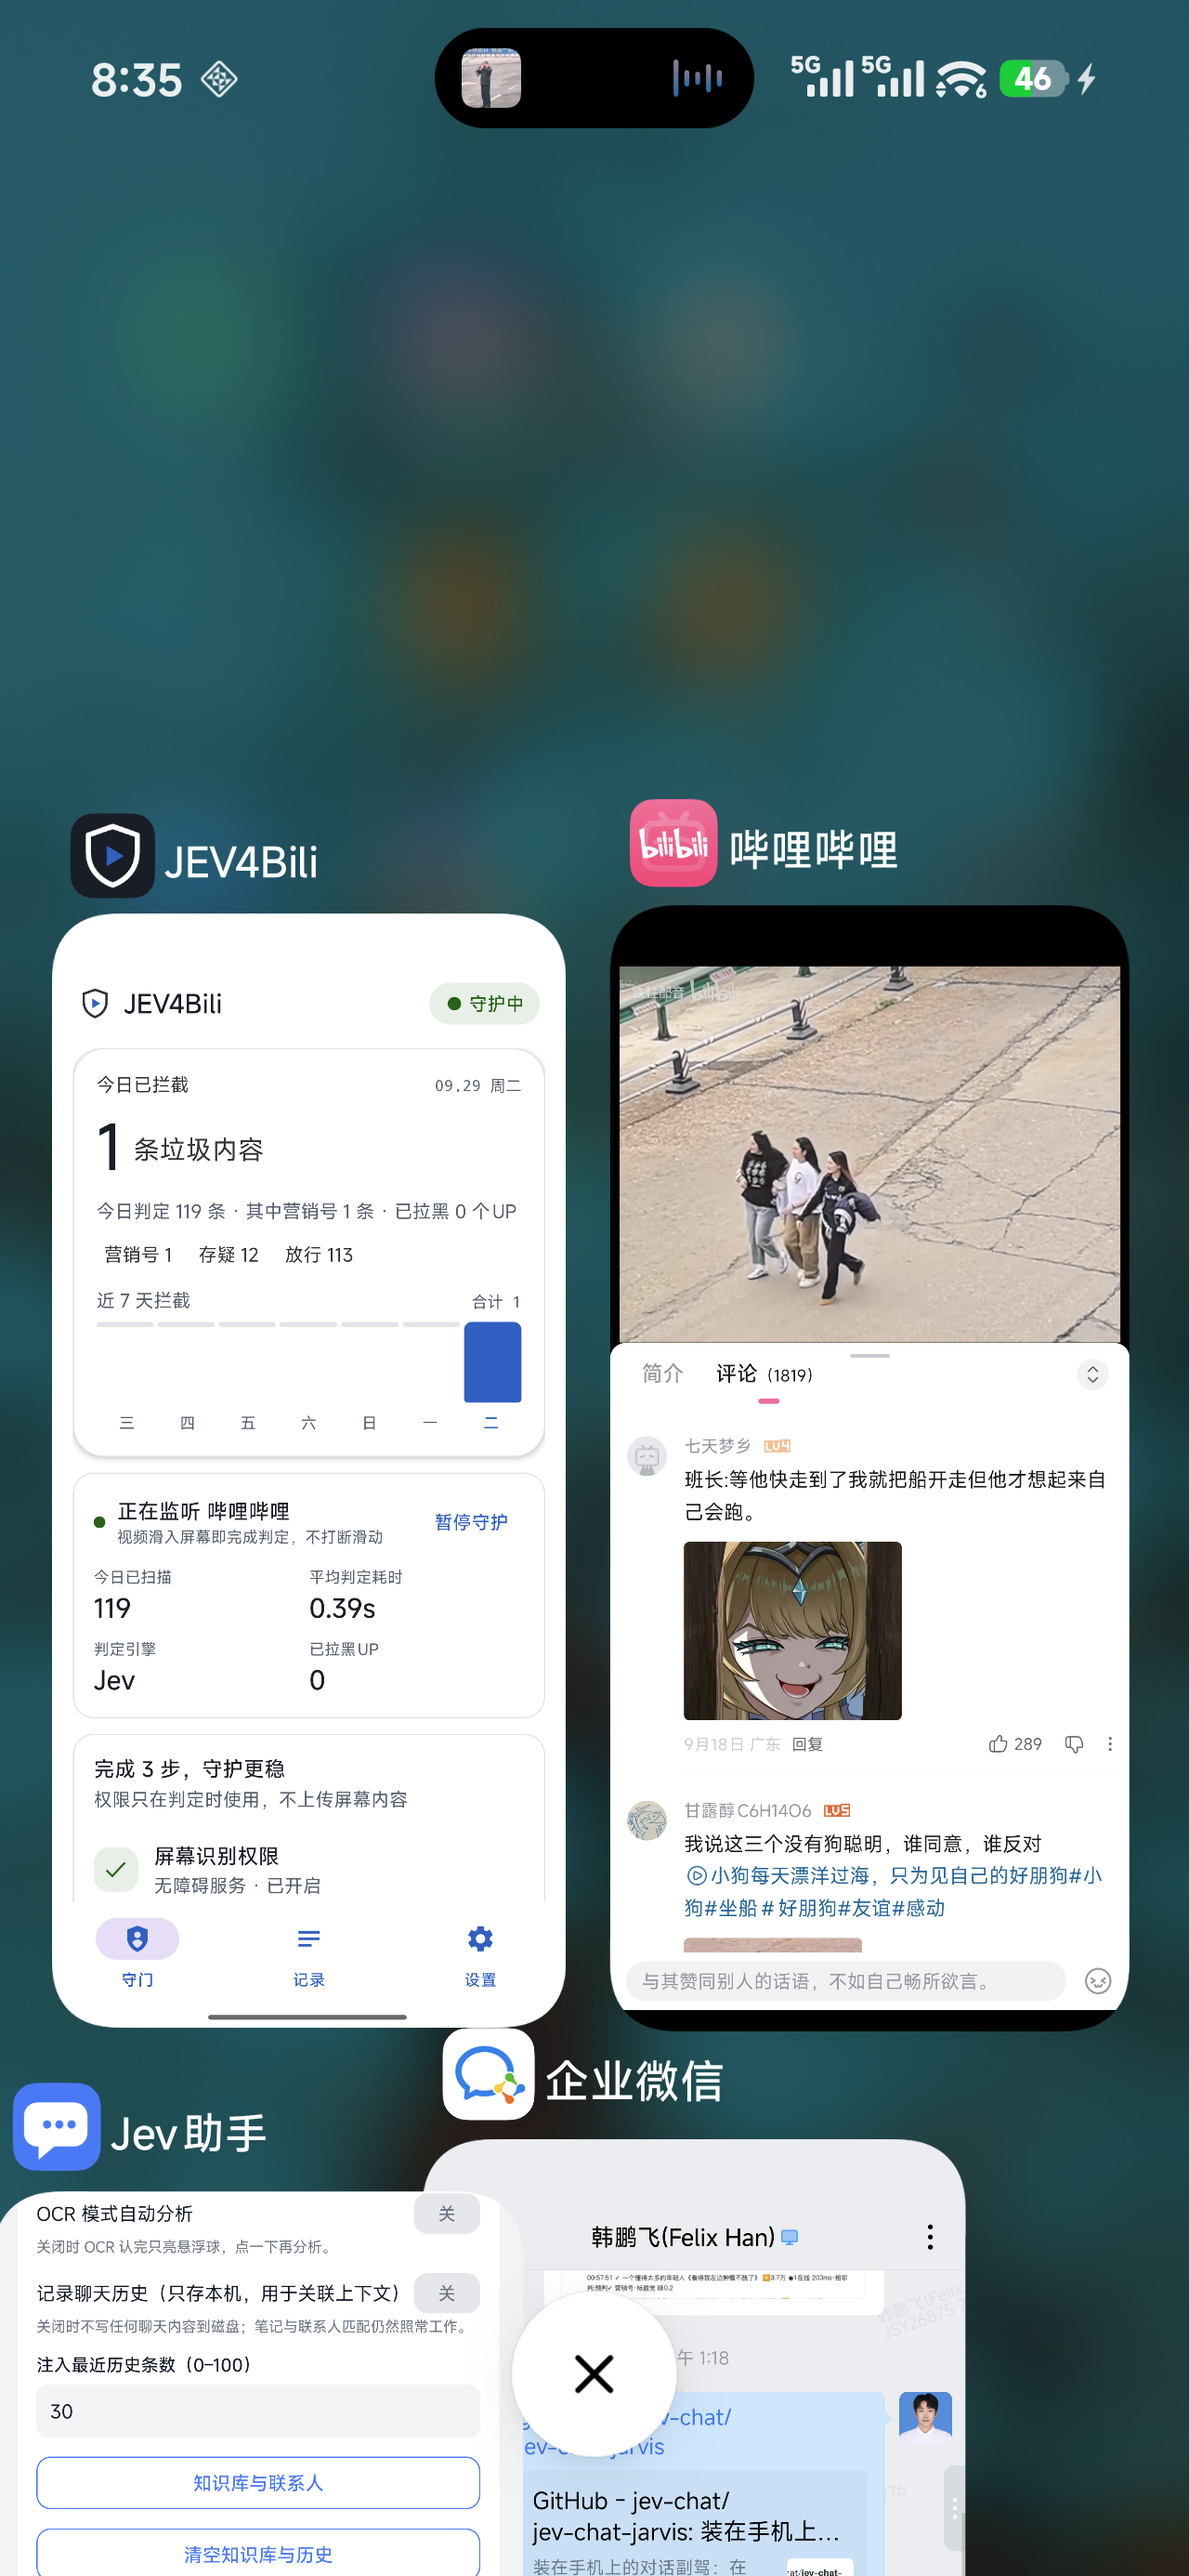
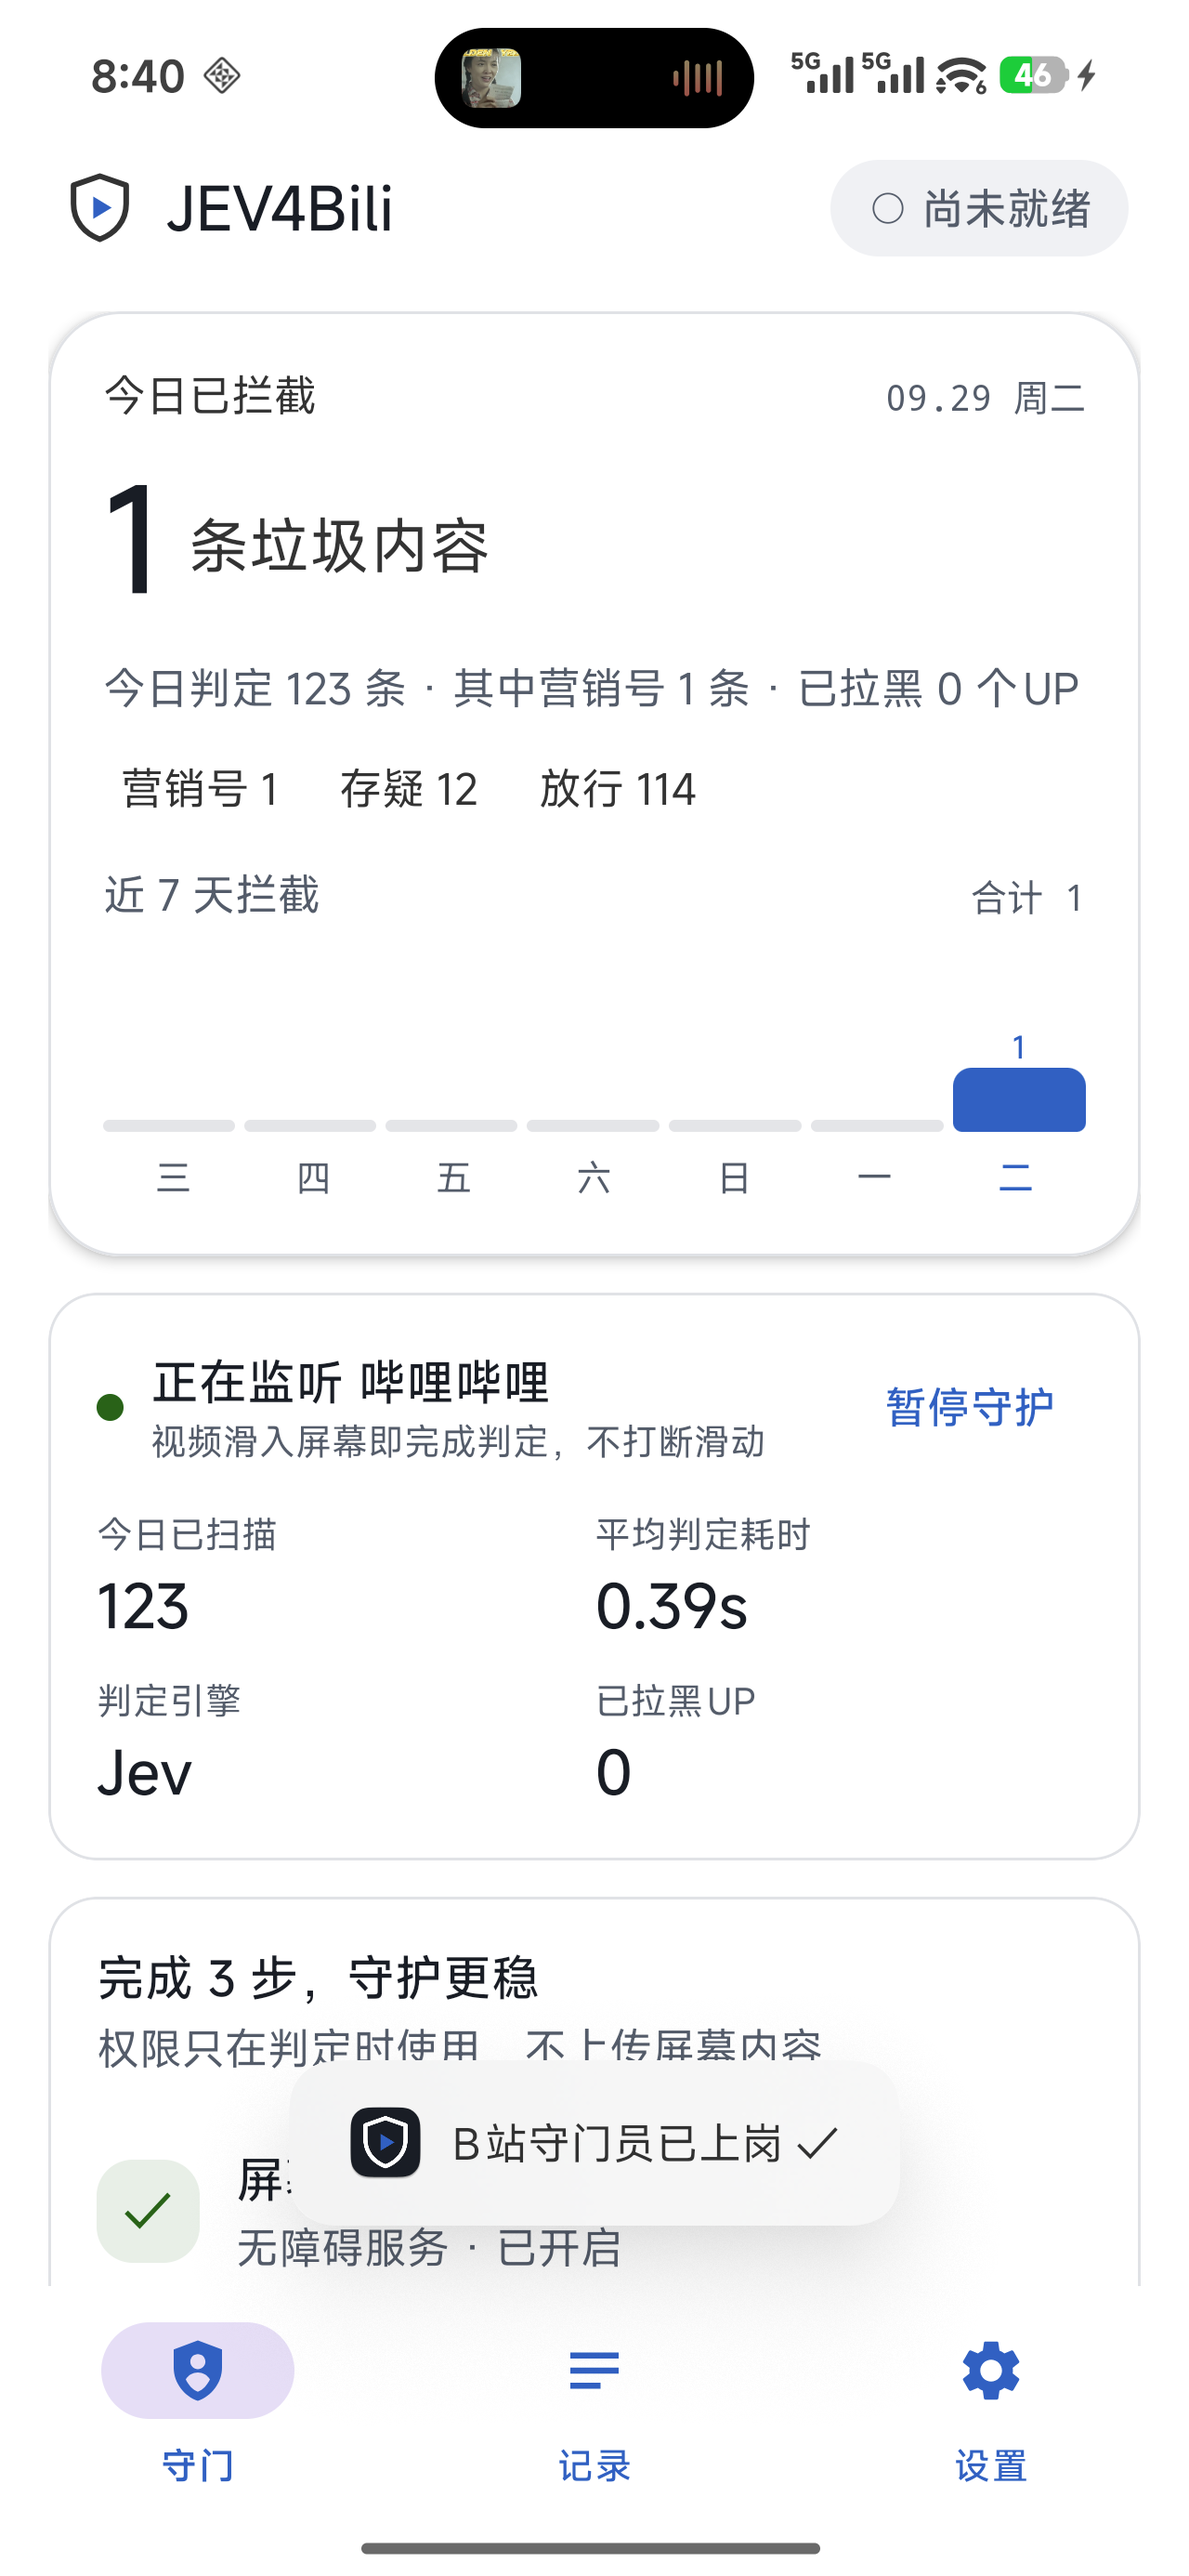
v0.10.1: 7天柱状图加柱顶数字标签+分母兜底防单条顶格误读

diff --git a/app/src/main/java/com/biligate/app/MainActivity.kt b/app/src/main/java/com/biligate/app/MainActivity.kt
@@ -341,6 +341,7 @@ class MainActivity : AppCompatActivity() {
             if (d.matches(Regex("\\d{2}-\\d{2}"))) buckets[d] = (buckets[d] ?: 0) + 1
         }
         val barIds = listOf(R.id.bar1, R.id.bar2, R.id.bar3, R.id.bar4, R.id.bar5, R.id.bar6, R.id.bar7)
+        val labelIds = listOf(R.id.barN1, R.id.barN2, R.id.barN3, R.id.barN4, R.id.barN5, R.id.barN6, R.id.barN7)
         val dp = { v: Int -> (v * resources.displayMetrics.density).toInt() }
         val cal = java.util.Calendar.getInstance()
         cal.add(java.util.Calendar.DAY_OF_YEAR, -6)
@@ -350,8 +351,12 @@ class MainActivity : AppCompatActivity() {
             val n = buckets[key] ?: 0
             total += n
             val v = findViewById<View>(id)
-            v.layoutParams.height = if (n == 0) dp(4) else (dp(4) + (dp(58) * n.toFloat() / (buckets.values.maxOrNull() ?: 1))).toInt()
+            // v0.10.1 柱高：非零才起柱；分母兜底max(周max,3)防"单条顶格"误读（柱顶另有数字标签）
+            v.layoutParams.height = if (n == 0) dp(4)
+                else (dp(4) + (dp(52) * n.toFloat() / maxOf(buckets.values.maxOrNull() ?: 1, 3))).toInt()
             v.requestLayout()
+            val lb = findViewById<TextView>(labelIds[i])
+            if (n > 0) { lb.text = n.toString(); lb.visibility = View.VISIBLE } else lb.visibility = View.GONE
             if (i < 6) cal.add(java.util.Calendar.DAY_OF_YEAR, 1)
         }
         findViewById<TextView>(R.id.barsTotal).text = "合计 $total"
